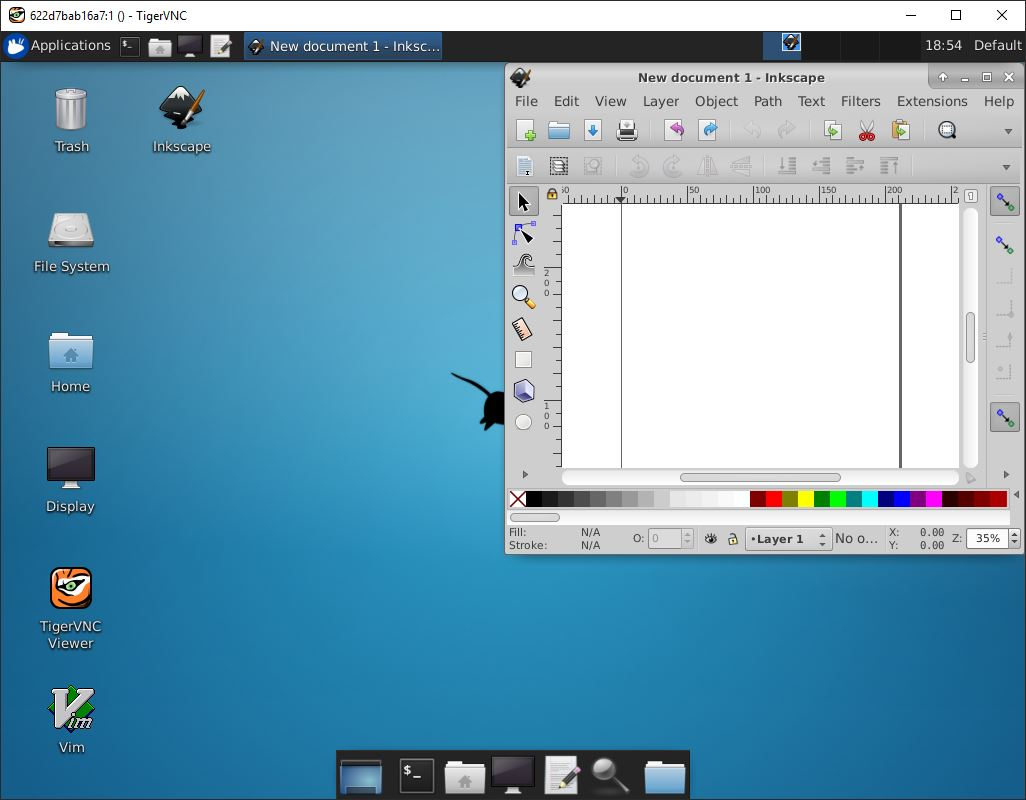
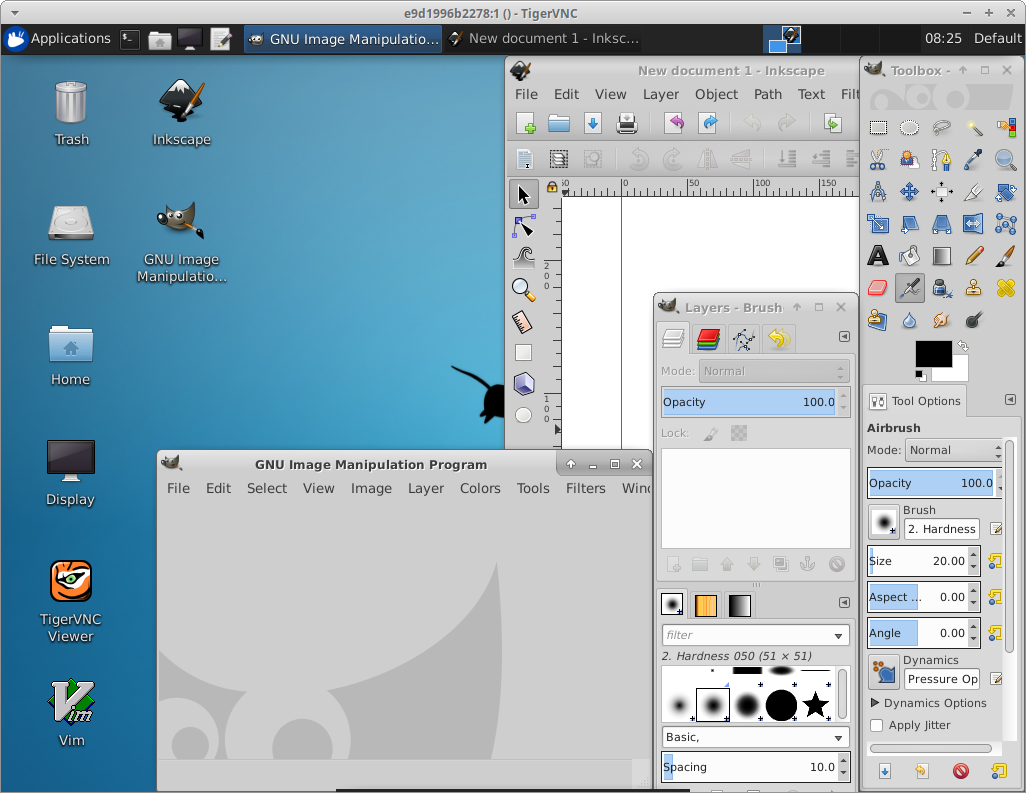
release 19.11.4

diff --git a/docker/xubuntu-vnc-inkscape/README.md b/docker/xubuntu-vnc-inkscape/README.md
@@ -1,6 +1,6 @@
-# Headless Ubuntu/Xfce container with VNC and Inkscape
+# Headless Ubuntu/Xfce container with VNC and Inkscape and GIMP
 
-## accetto/xubuntu-vnc-inkscape
+## accetto/xubuntu-vnc-inkscape-gimp
 
 [Docker Hub][this-docker] - [Git Hub][this-github] - [Changelog][this-changelog] - [Wiki][this-wiki] - [Hierarchy][this-wiki-image-hierarchy]
 
@@ -11,7 +11,7 @@
 ![badge-github-release][badge-github-release]
 ![badge-github-release-date][badge-github-release-date]
 
-This repository contains resources for building Docker images based on [Ubuntu][docker-ubuntu] with [Xfce][xfce] desktop environment, [VNC][tigervnc] server for headless use and the free professional vector graphics editor [Inkscape][inkscape].
+This repository contains resources for building Docker images based on [Ubuntu][docker-ubuntu] with [Xfce][xfce] desktop environment, [VNC][tigervnc] server for headless use and the free professional vector graphics editor [Inkscape][inkscape] and the free bitmap image editor [GIMP][gimp].
 
 The images are part of the growing [image hierarchy][this-wiki-image-hierarchy] and they are based on [accetto/xubuntu-vnc][accetto-docker-xubuntu-vnc]. They inherit all the features and therefore not the whole description will be repeated here.
 
@@ -26,6 +26,7 @@ The `latest` image inherits among others
 and adds
 
 - current version of [Inkscape][inkscape] free professional vector graphics editor
+- free bitmap image editor [GIMP][gimp] (Ubuntu distribution)
 
 [Inkscape][inkscape] can be used for many things, including the conversion of bitmap images into the **SVG** format.
 
@@ -107,7 +108,7 @@ Credit goes to all the countless people and companies, who contribute to open so
 
 ***
 
-[this-docker]: https://hub.docker.com/r/accetto/xubuntu-vnc-inkscape/
+[this-docker]: https://hub.docker.com/r/accetto/xubuntu-vnc-inkscape-gimp/
 
 [this-github]: https://github.com/accetto/xubuntu-vnc/
 [this-changelog]: https://github.com/accetto/xubuntu-vnc/blob/master/CHANGELOG.md
@@ -119,7 +120,7 @@ Credit goes to all the countless people and companies, who contribute to open so
 
 [this-github-xubuntu-vnc-inkscape]: https://github.com/accetto/xubuntu-vnc/tree/master/docker/xubuntu-vnc-inkscape
 
-[this-screenshot-container]: https://raw.githubusercontent.com/accetto/xubuntu-vnc/master/docker/xubuntu-vnc-inkscape/xubuntu-vnc-inkscape.jpg
+[this-screenshot-container]: https://raw.githubusercontent.com/accetto/xubuntu-vnc/master/docker/xubuntu-vnc-inkscape/xubuntu-vnc-inkscape-gimp.jpg
 
 [accetto-docker-xubuntu-vnc]: https://hub.docker.com/r/accetto/xubuntu-vnc/
 
@@ -132,6 +133,7 @@ Credit goes to all the countless people and companies, who contribute to open so
 [git]: https://git-scm.com/
 [jq]: https://stedolan.github.io/jq/
 [firefox]: https://www.mozilla.org
+[gimp]: https://www.gimp.org/
 [inkscape]: https://inkscape.org/
 [mousepad]: https://github.com/codebrainz/mousepad
 [tigervnc]: http://tigervnc.org
@@ -142,9 +144,9 @@ Credit goes to all the countless people and companies, who contribute to open so
 
 <!-- docker badges -->
 
-[badge-docker-pulls]: https://badgen.net/docker/pulls/accetto/xubuntu-vnc-inkscape?icon=docker&label=pulls
+[badge-docker-pulls]: https://badgen.net/docker/pulls/accetto/xubuntu-vnc-inkscape-gimp?icon=docker&label=pulls
 
-[badge-docker-stars]: https://badgen.net/docker/stars/accetto/xubuntu-vnc-inkscape?icon=docker&label=stars
+[badge-docker-stars]: https://badgen.net/docker/stars/accetto/xubuntu-vnc-inkscape-gimp?icon=docker&label=stars
 
 <!-- github badges -->
 
@@ -154,12 +156,12 @@ Credit goes to all the countless people and companies, who contribute to open so
 
 <!-- latest tag badges -->
 
-[badge-VERSION_STICKER_LATEST]: https://badgen.net/badge/version%20sticker/ubuntu18.04.3-inkscape0.92.3/blue
+[badge-VERSION_STICKER_LATEST]: https://badgen.net/badge/version%20sticker/ubuntu18.04.3-inkscape0.92.3-gimp2.8.22/blue
 
-[badge-github-commit-latest]: https://images.microbadger.com/badges/commit/accetto/xubuntu-vnc-inkscape.svg
+[badge-github-commit-latest]: https://images.microbadger.com/badges/commit/accetto/xubuntu-vnc-inkscape-gimp.svg
 
 <!-- firefox tag badges -->
 
-[badge-VERSION_STICKER_FIREFOX]: https://badgen.net/badge/version%20sticker/ubuntu18.04.3-inkscape0.92.3-firefox70.0.1/blue
+[badge-VERSION_STICKER_FIREFOX]: https://badgen.net/badge/version%20sticker/ubuntu18.04.3-inkscape0.92.3-gimp2.8.22-firefox70.0.1/blue
 
-[badge-github-commit-firefox]: https://images.microbadger.com/badges/commit/accetto/xubuntu-vnc-inkscape:firefox.svg
+[badge-github-commit-firefox]: https://images.microbadger.com/badges/commit/accetto/xubuntu-vnc-inkscape-gimp:firefox.svg

diff --git a/README.md b/README.md
@@ -50,7 +50,7 @@ The images are streamlined and simplified versions of my other images [accetto/u
 
 #### [xubuntu-vnc-inkscape][this-github-xubuntu-vnc-inkscape]
   
-Contains resources for building [accetto/xubuntu-vnc-inkscape][this-docker-xubuntu-vnc-inkscape] images with the free open-source vector graphics editor [Inkscape][inkscape].
+Contains resources for building [accetto/xubuntu-vnc-inkscape][this-docker-xubuntu-vnc-inkscape] images with the free open-source vector graphics editor [Inkscape][inkscape] and the free open-source bitmap image editor [GIMP][gimp].
 
 Several variations are available, including the one with the current [Firefox Quantum][firefox] web browser.
 
@@ -157,6 +157,7 @@ Credit goes to all the countless people and companies, who contribute to open so
 [angular]: https://angular.io/
 [chromium]: https://www.chromium.org/Home
 [curl]: http://manpages.ubuntu.com/manpages/bionic/man1/curl.1.html
+[gimp]: https://www.gimp.org/
 [git]: https://git-scm.com/
 [inkscape]: https://inkscape.org/
 [jq]: https://stedolan.github.io/jq/

diff --git a/docker/xubuntu-vnc-node/README.md b/docker/xubuntu-vnc-node/README.md
@@ -246,6 +246,6 @@ Credit goes to all the countless people and companies, who contribute to open so
 
 <!-- current tag badges -->
 
-[badge-VERSION_STICKER_CURRENT]: https://badgen.net/badge/version%20sticker/ubuntu18.04.3-node13.0.1-npm6.12.0/blue
+[badge-VERSION_STICKER_CURRENT]: https://badgen.net/badge/version%20sticker/ubuntu18.04.3-node13.2.0-npm6.13.1/blue
 
 [badge-github-commit-current]: https://images.microbadger.com/badges/commit/accetto/xubuntu-vnc-node:current.svg

diff --git a/CHANGELOG.md b/CHANGELOG.md
@@ -6,6 +6,17 @@
 
 ***
 
+### Release 19.11.4
+
+- **xubuntu-vnc-inkscape**
+  - bitmap image editor **GIMP** added (version **2.8.22** from Ubuntu distribution)
+  - Docker image renamed to **xubuntu-vnc-inkscape-gimp**
+    - previous Docker image **xubuntu-vnc-inkscape** deprecated (no future builds)
+- **xubuntu-vnc-node**
+  - `current` image updated
+    - Node.js **13.2.0**
+    - npm **6.13.1**
+
 ### Release 19.11.3
 
 - Updated versions:
